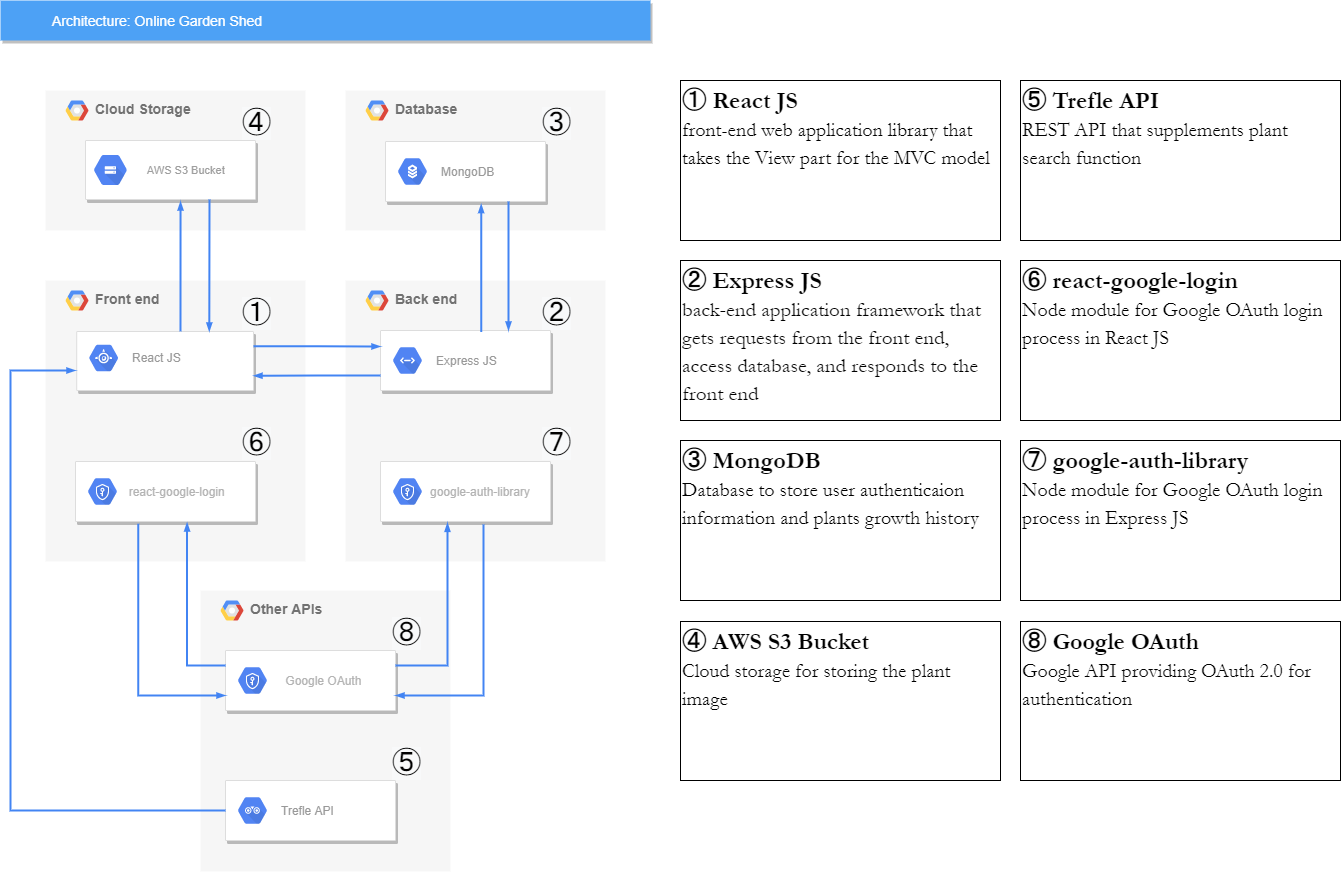
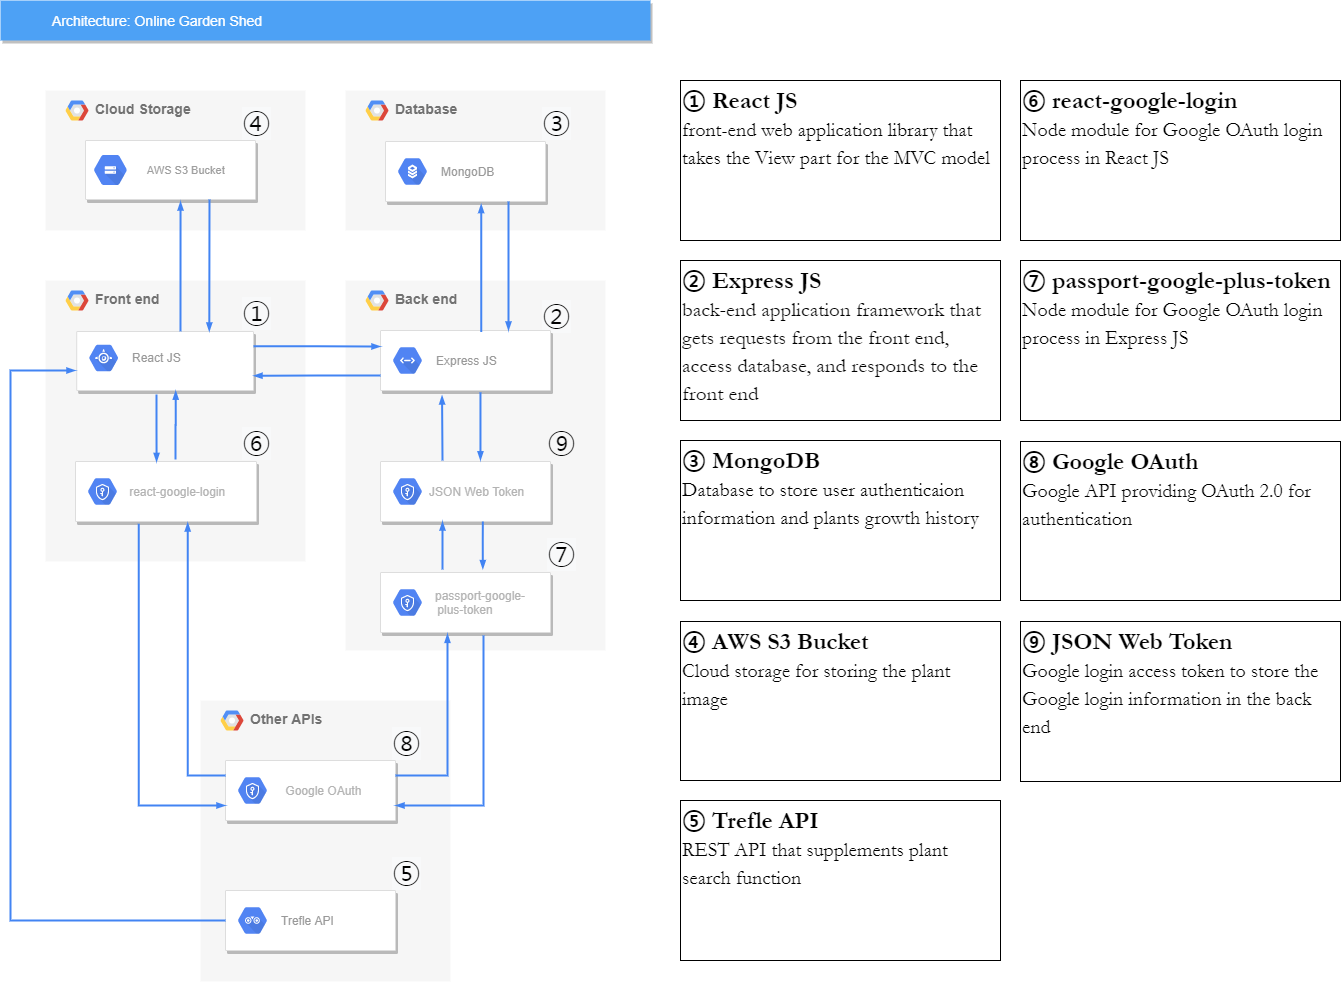
add JWT on the document

diff --git a/README.md b/README.md
@@ -39,7 +39,8 @@ Online Garden Shed is for improving your gardening skills by keeping track of a 
 * Node JS: JavaScript runtime environment
 * AWS S3 Bucket or Cloudinary: Cloud storage for holding the plant images
 * react-google-login: Node module for Google OAuth login process in React JS
-* google-auth-library: Node module for Google OAuth login process in Express JS
+* passport: Node module for authentication and authorization in Express JS
+* passport-google-plus-token: Node module for Google OAuth login process in Express JS
 * jwt: Node module for the authentication communication between React JS and Express JS
 * nodemailer: Node module for sending email notifications
 
